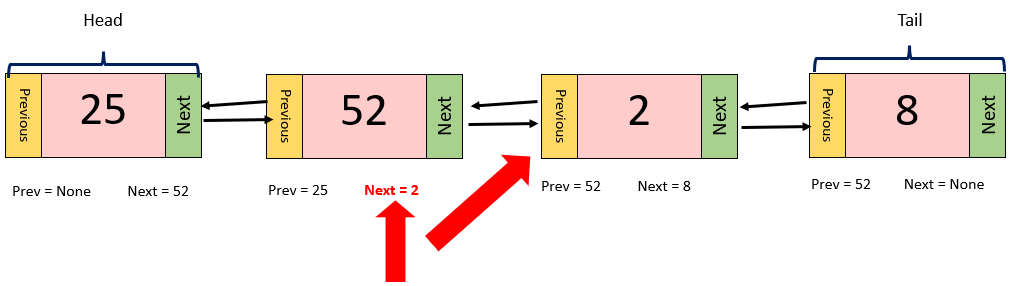
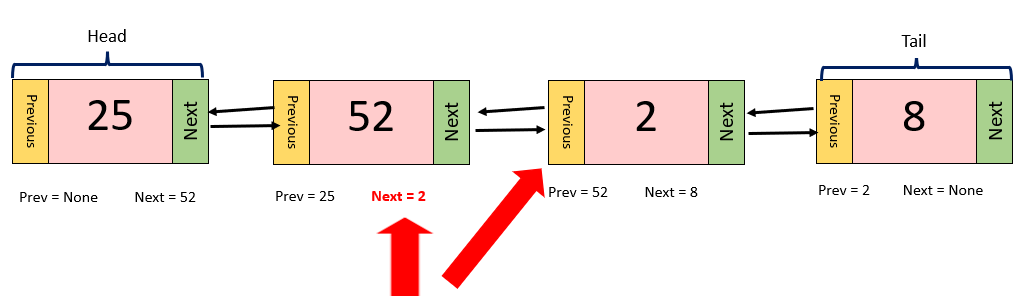
insert_head done, insert_middle almost done

diff --git a/2-linked_lists.md b/2-linked_lists.md
@@ -43,7 +43,7 @@ The second way to create a linked list in python, is to write a Linked List clas
 - create a new node 
 - insert or delete a node from the list 
 
-In this tutorial, we will go over each step of how to create, insert, and delete from, a linked list.
+In this tutorial, we will go over each step of how to create, insert, and delete from, a linked list using a Linked List class.
 
 ## Creating an Empty Linked List
 
@@ -65,7 +65,7 @@ def __init__(self):
 Now, whenever we call the LinkedList() class, a new, empty linked list will be created.
 
 ## Creating a New Node
-Before we learn how to insert nodes into a linked list, we first need to learn about the properties of a node. When comparing the two, nodes in a linked list are more complex than items in a regular list due to the fact that nodes have two pointers (previous and next), as well as a value, while items just have a value. Because each of these two pointers have their own value, there needs to be a way to insert all three values at once into the list. 
+Before we learn how to insert nodes into a linked list, we first need to learn about the properties of a node, and how to create one. When comparing the two, nodes in a linked list are more complex than items in a regular list due to the fact that nodes have two pointers (previous and next), as well as a value, while items in a regular list just have a value. Because each of these two pointers have their own value, there needs to be a way to insert all three values at once into the list. 
 
 ![Image of a Node](images/new_node_single.png)
 
@@ -100,6 +100,7 @@ Up to this point, we have defined the LinkedList and the Node classes, and have 
 
 ```python
 class LinkedList:
+    #create the Node class
     class Node:
         def __init__(self, value):
         # define the main value
@@ -117,39 +118,126 @@ class LinkedList:
 
 ## Inserting into a Linked List
 
-When inserting into a linked list, there are three spots we can insert a new node at:
+Now, let's start inserting nodes into our linked list. When inserting into a linked list, there are three spots we can insert a new node at:
 
 - The Head
 - The Tail
 - In the Middle
 
-Each of these spots have a different checklist to follow in order to correctly implement the insertion.
+Each of these spots have a different checklist to follow in order to correctly implement the insertion. In our LinkedList class, it would be ideal to create a function for each of these spots (i.e., insert_head, insert_tail, insert_middle) 
 
 ### Inserting at the Head
 
-These are the steps for inserting a node at the Head of a linked list:
+Let's start by defining an insert_head function in our LinedList class. We will want to pass in a value as a parameter that will be used to create our node:
+
+```python
+def insert_head(self, value):
+
+```
+
+To write the rest of the function, we must know that there are 4 steps for inserting a node at the Head of a linked list:
 
 1. Create a new node
 
 ![Create a new node](images/new_node.png)
 
+In the example picture above, we see that we have a linked list already populated with 3 nodes: a head, a tail, and a node in the middle. What we want to do is insert a new node, with a value of 2, at the front of the linked list, or the head. For our first step, we need to create a node that can be inserted into the list. Luckily for us, we have already created a Node class that does just this; we just need to call it and store it into a variable:
+
+```python
+# create a new node by calling the Node class
+new_node = LinkedList.Node(value)
+```
+Since the Node class is a property of the LinkedList class, we must first call the LinkedList class, and then the Node class as shown above. The value we pass into the Node class is the same as the value we are passing into the insert_head function. 
+
 2. Set the "next" pointer of the new node equal to the current head.
+
+When we created this new node in the line above, the node's pointers were both set to None, due to the default settings of the Node class. Now, since we are inserting this new node at the head, we want its pointers to reflect that of a head node. 
+
+To do this, we will leave the "prev" pointer set to None (since the head node doesn't have anything before it), and we will set the "next" pointer of the new node equal to the list's current head, as shown below. This will essentially "link" the node to the current head.
 
 ![Set Next Equal to Head](images/set_next_ih.png)
 
+To do this in python, we will set the new_node's property of ".next" equal to the class's head, "self.head".
+
+```python
+#step 2
+new_node.next = self.head
+```
+
 3. Set the "prev" pointer of the current head equal to the new node.
+
+Since the current head now has node before it, its "prev" pointer should now equal that new node, the one we just created. 
 
 ![Set Prev Equal to New Node](images/set_prev_ih.png)
 
+In python, we will change the ".prev" property of the current head to equal the new_node:
+
+```python
+#step 3
+self.head.prev = new_node
+```
+
 4. Set the head equal to the new node
+
+When referring to our picture example so far, self.head is still equal to the node with a value of 25. This needs to change, since the new head is the node with a value of 2.
 
 ![Set Head Equal to New Node](images/set_head.png)
 
-If the linked list is empty, then set both the head and tail equal to the new node.
+To represent this in python is pretty easy. All we need to do is set self.head equal to our new_node.
 
+```python
+#step 4
+self.head = new_node
+```
+
+After following these 4 steps, your current insert_head function should look like this:
+
+```python
+def insert_head(self, value):
+    #step 1
+    new_node = LinkedList.Node(value)
+    #step 2
+    new_node.next = self.head
+    #step 3
+    self.head.prev = new_node
+    #step 4
+    self.head = new_node
+```
+
+#### Empty List Exceptions
+The process of inserting a node at the head is a little bit different if there isn't a head to begin with! If you are trying to insert a node into an empty list, set both the head and tail equal to the new node.
+
+```python
+self.head = new_node
+self.tail = new_node
+```
+
+Let's create an if statement in our insert_head function that handles this exception. This if statement will check to see if the linked list is empty after we create a new node. If the list is empty, we will set the head and tail equal to the new_node. If the list is NOT empty, we will then follow the steps to insert the new node at the head. Your insert_head function should now be updated with the new if statement to look like this:
+
+```python
+def insert_head(self, value):
+    #step 1
+    new_node = LinkedList.Node(value)
+    
+    # if there is no head (meaning the list is empty)
+    if self.head is None:
+        # set the head and tail equal to the new_node
+        self.head = new_node
+        self.tail = new_node
+    # if there is a head (meaning there is at least one node in the list)
+    else:
+        # follow the rest of the steps to insert a node at the head
+        
+        #step 2
+        new_node.next = self.head
+        #step 3
+        self.head.prev = new_node
+        #step 4
+        self.head = new_node 
+```
 ### Inserting at the Tail
 
-The steps for inserting a new node at the tail are very similar to the steps for inserting at the head:
+The steps for inserting a new node at the tail are very similar to the steps for inserting at the head. We just need to consider the small changes that make inserting at the tail slightly different from inserting at the head:
 
 1. Create a new node
 
@@ -167,33 +255,118 @@ The steps for inserting a new node at the tail are very similar to the steps for
 
 ![Set tail to new node](images/set_tail_i.png)
 
-**It is important to note that inserting at the head, and inserting at the tail each have a performance of O(1).
+You will be challenged later on in this lesson to write your own insert_tail function, so we will not be writing one here. 
+
+### Big O Notation
+
+It is important to note that inserting at the head, and inserting at the tail each have a performance of O(1).
 
 ### Inserting in the Middle
 
-Here are the steps for inserting a node into the middle of a linked list. The process is a bit more complicated than inserting at the head or tail:
+We will now learn how to insert a new node into the middle of the list. The process is a bit more complicated than inserting at the head or tail. 
+
+When defining the insert_middle function, we need to pass in 2 parameters instead of 1:
+
+- current_value
+- new_value
+
+The __current_value__ represents a value already in the linked list that we want to insert our new node after. The __new_value__ represents the main value of our new node.
+
+```python
+def insert_middle(self, current_value, new_value):
+```
+
+Now, let's go over the steps of inserting a node into the middle of the list. To make explanations simpler when writing our function, we will store the __current_value__ parameter into a variable named __current_node__:
+
+```python
+current_node = current_value
+```
 
 1. Create a new node
 
 ![Create a new node](images/new_node.png)
 
-2. Let's say we are trying to insert our new node after the node with a value of 52. To do that, we would need to set the "prev" pointer of the new node equal to 52. 
+This step is exactly the same as the one in the insert_head function. We simply need to store the Node class into a variable called new_node. The value passed into the Node class will be the new_value parameter in our insert_middle function.
+
+```python
+#step 1
+new_node = LinkedList.Node(new_value)
+```
+
+2. Set the "prev" pointer of the new_node equal to the current_node.
+
+Let's say our current_node, or the node we are trying to insert our new node after, is the node with a value of 52. If we want our new_node to come after 52, we need to set the "prev" pointer of the new_node equal to 52 as shown below:
 
 ![Set new prev](images/set_prev_im.png)
 
-3. Then, we need to set the "next" pointer of the new node to equal the "next" pointer of 52's node, which is 8.
+In python, we would set new_node.prev equal to the current_node:
+
+```python
+#step 2
+new_node.prev = current_node
+```
+
+3. Set the "next" pointer of the new_node equal to the "next" pointer of the current_node
+
+In our example, we are essentially squeezing our new_node of 2, in between nodes 52 and 8. We have already set our new_node's "prev" pointer to 52, now we need to set its "next" pointer equal to 8.
 
 ![Set new next](images/set_next_im.png)
 
-4. Now, we set the "next" pointer of the new node's "prev" pointer to equal the new node.
+As of now, 8 is the same as our current_node, 52's, "next" pointer (current_node.next). To complete this step, we will set the new_node's next (new_node.next) equal to the current_node's next (current_node.next), as shown below:
 
-![Set prev next](images/set_im2.png)
+```python
+#step 3
+new_node.next = current_node.next
+```
 
-5. Lastly, we set the "prev" pointer of the new node's "next" pointer equal to the new node. 
+4. Set the value of the current_node's "next" pointer equal to the new_node.
 
-![Set next prev](images/set_im3.png)
+Now that the new_node is in its new place, we need to change the surrounding nodes to reflect that. As we established in the previous step, the current_node's (52) "next" pointer is equal to 8. Since this node, 8, is now after the new_node we just inserted, we need to change its "prev" pointer to equal to the new node.
 
-**Inserting a node into the middle of a linked list has a performance of O(n).
+![Set prev next](images/set_im3.png)
+
+We can access the "prev" pointer of the node with the value of 8, by first accessing current_node's "next" pointer as shown below:
+
+
+```python
+#step 4
+current_node.next.prev = current_node
+```
+
+5. Set the "next" of the current_node equal to the new_node. 
+
+Lastly, we need to change the current_node's "next" pointer, which is still 8, equal to the new_node, 2.
+
+![Set next prev](images/set_im2.png)
+
+```python
+#step 5
+current_node.next = current_node
+```
+Up to this point, your insert_middle function should look similar to this:
+
+```python
+def insert_middle(self, current_value, new_value):
+    # store the current_value into a variable
+    current_node = current_value
+    
+    #step 1
+    new_node = LinkedList.Node(new_value)
+    #step 2
+    new_node.prev = current_node
+    #step 3
+    new_node.next = current_node.next
+    #step 4
+    current_node.next.prev = current_node
+    #step 5
+    current_node.next = current_node
+```
+
+Exceptions go here.
+
+### Big O Notation
+
+It is important to note that inserting a node into the middle of a linked list has a performance of O(n).
 
 
 ## Removing a Node from a Linked List
